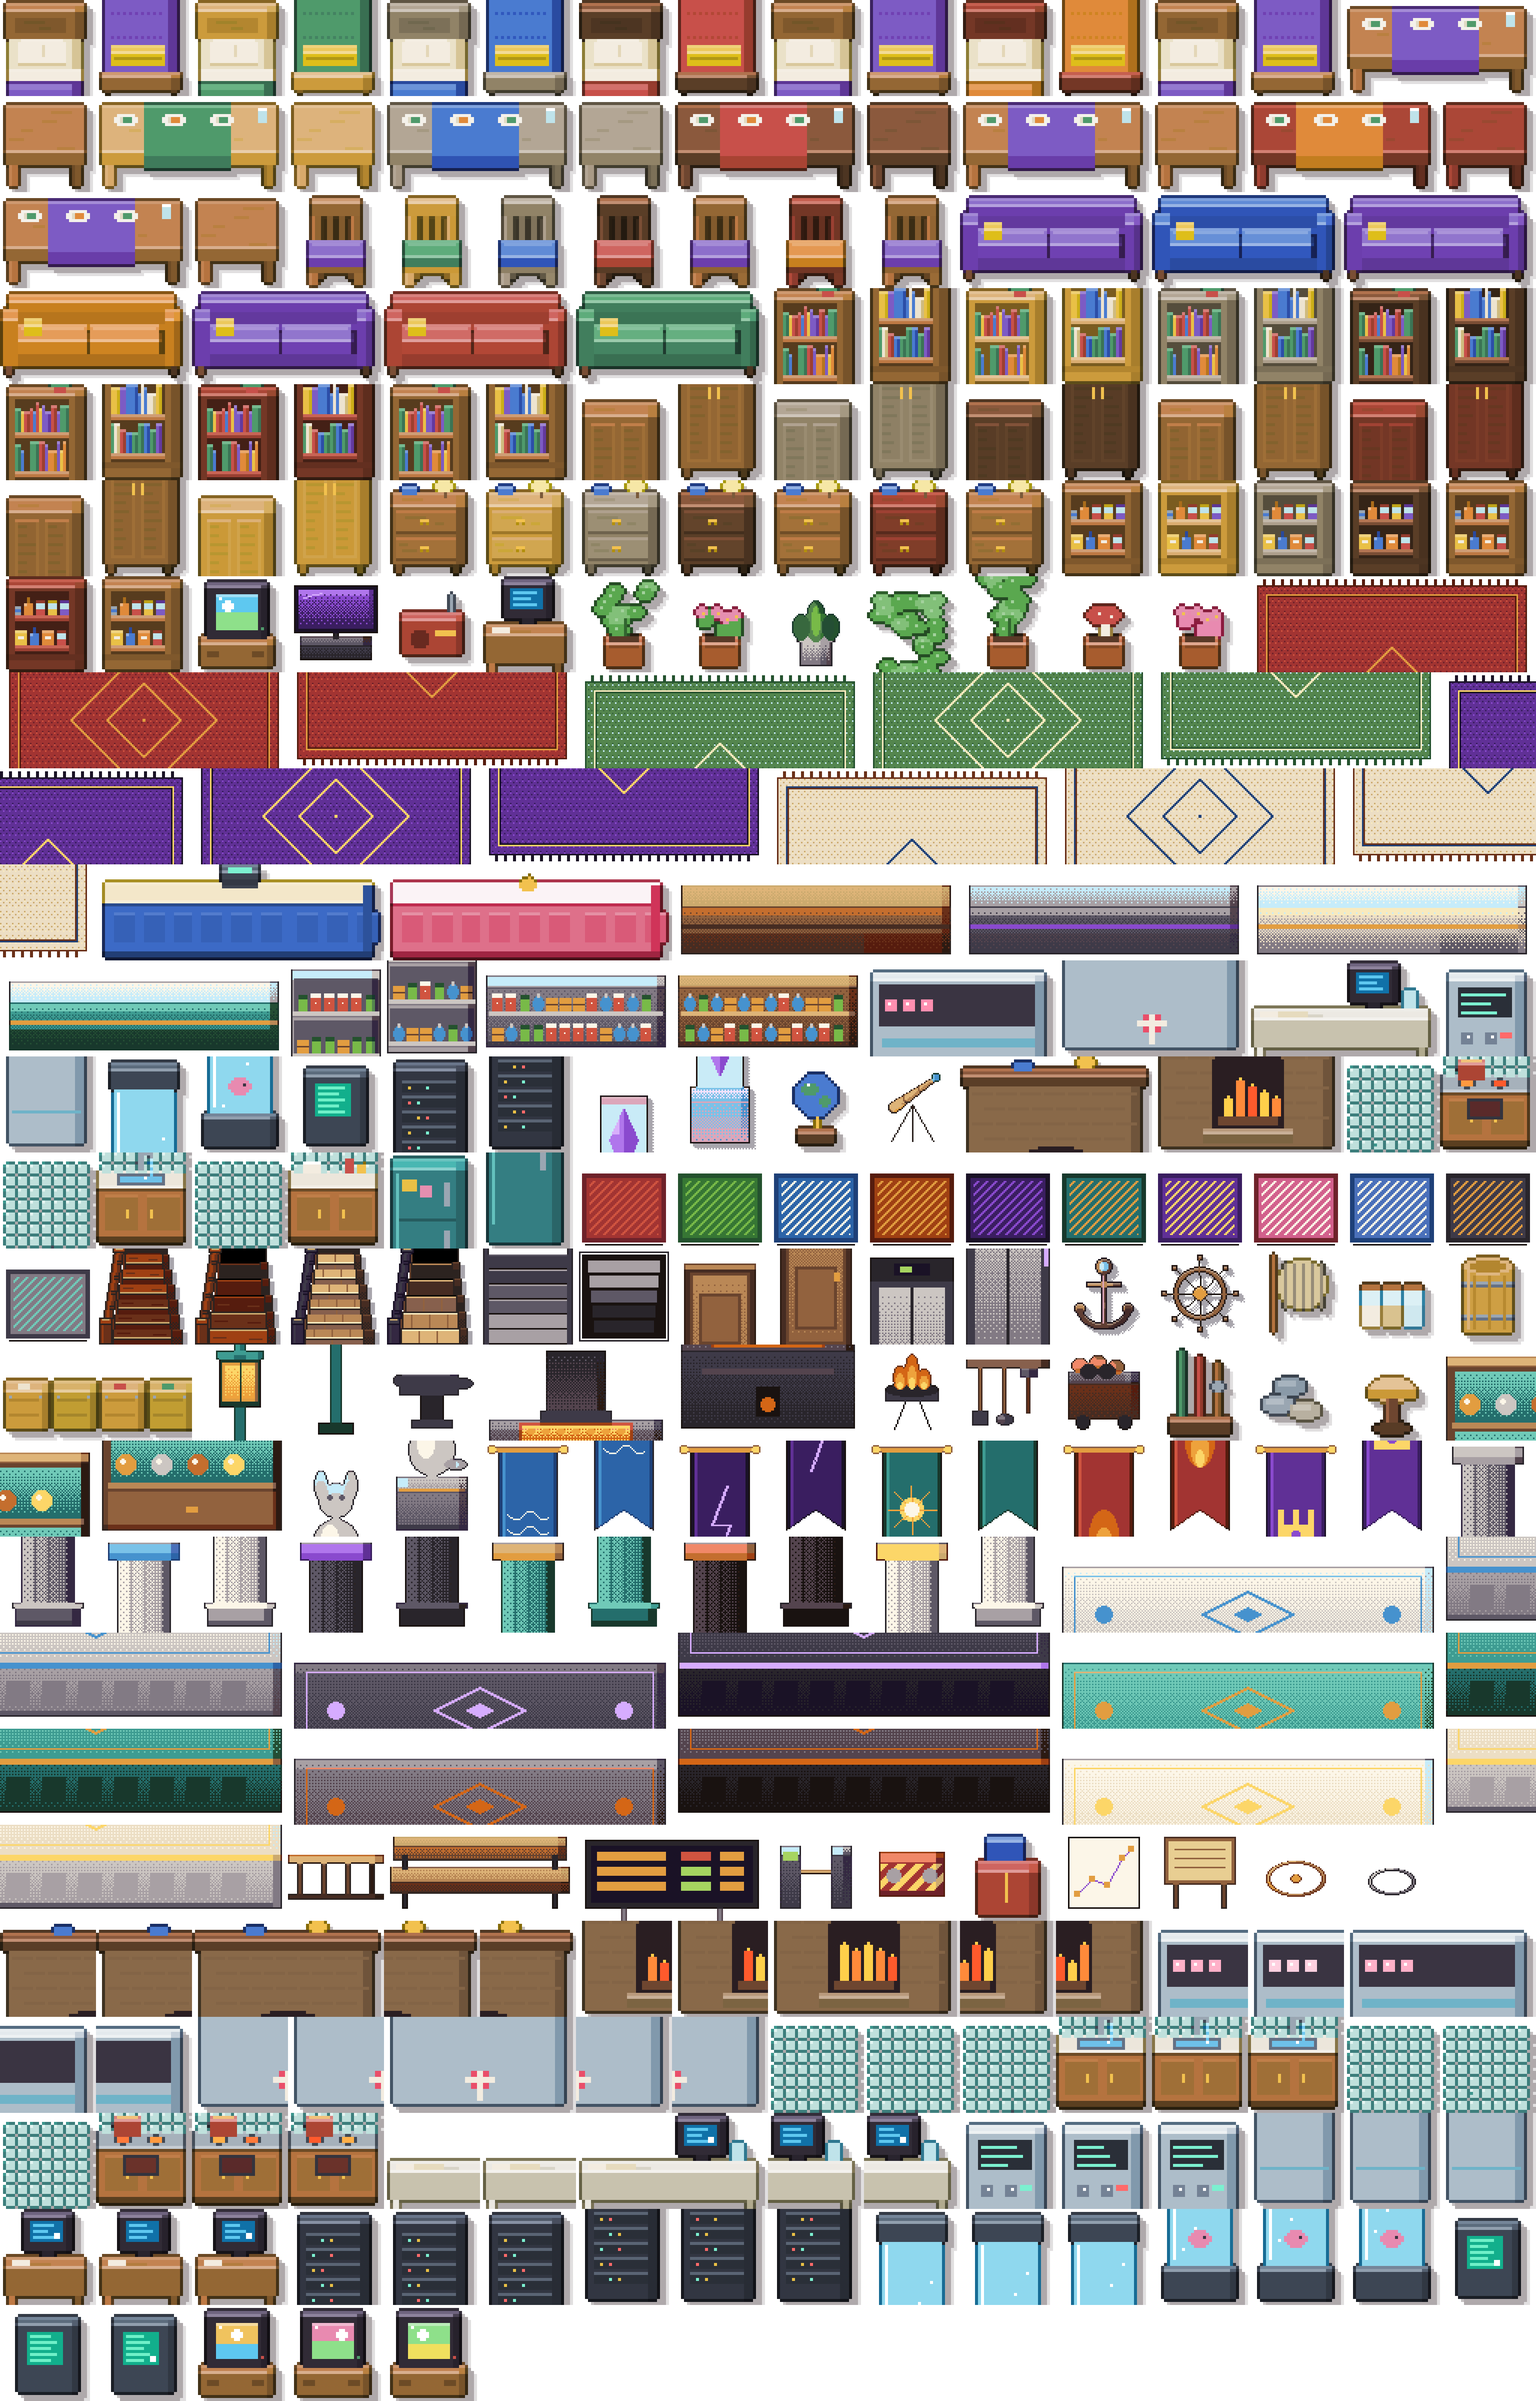
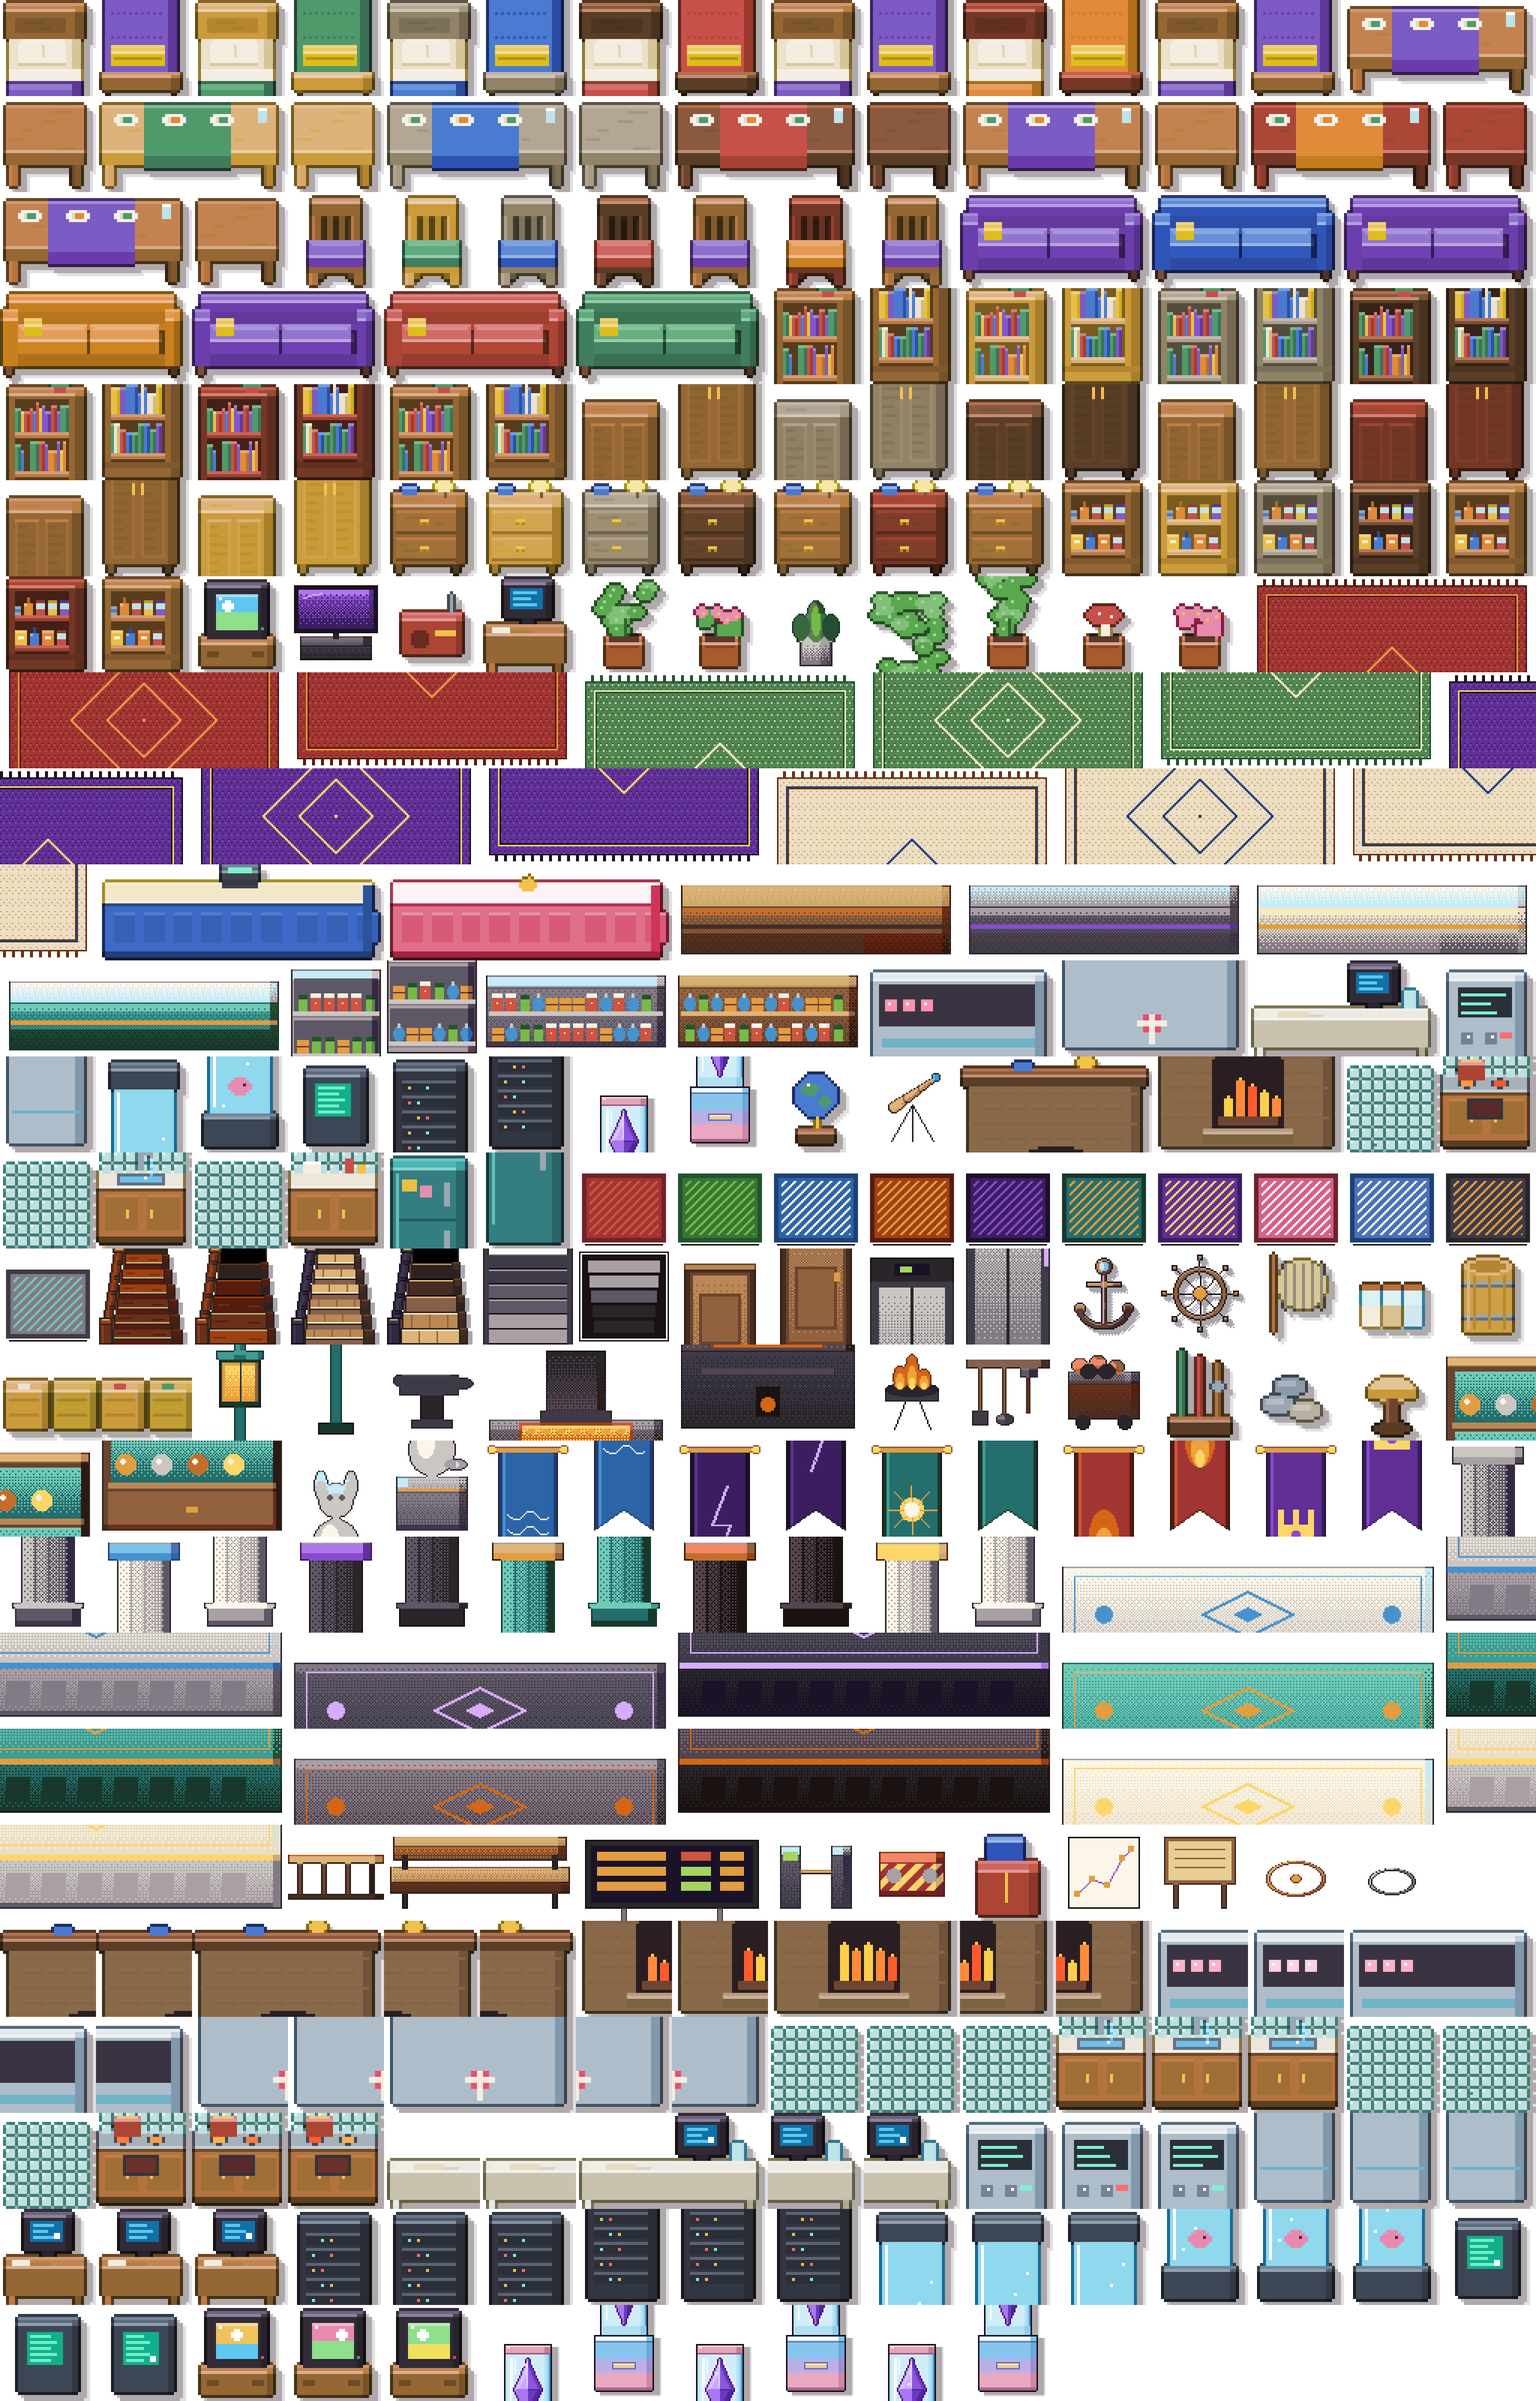
Kilumen: crystal display cases redrawn at v2 quality (840/841, 7293/7294) + subtle shimmer anim; collision unchanged

Changed region(s): [[0.3125, 0.9375, 0.6875, 1.0], [0.4375, 0.4375, 0.5, 0.5], [0.4062, 0.4688, 0.4375, 0.5]]

diff --git a/kilumen/tools/furniture_v2/crystal_cases_v1.py b/kilumen/tools/furniture_v2/crystal_cases_v1.py
@@ -1,0 +1,208 @@
+"""Crystal display cases v1 (Gary, Oct 29 2026): the ORIGINAL two lab/office crystal cases (furniture v4 KEEP_OLD) redrawn
+at the furniture-v2 detail level - same silhouette / design, v2 outline, stepped shading (no dither), v2 drop shadow and
+palette - plus a cheap shimmer (tile frame swap, 4 frames in free sheet cells). Collision is NOT touched.
+
+  i_crystal_display (ids 7293 top / 7294 bottom, interiors_new i_furniture_v3.png cells 182/183): tall glass column, one
+      floating diamond crystal, pink cap, blue->pink plinth.
+  crystal_display   (ids 840 top / 841 bottom, tiles_* interior_v3.png cells 52/53): dark framed case, three-crystal
+      cluster, teal trim, charcoal cabinet; also gets plane normals in tiles_1x/interior_v3_n.png (ixlight).
+Writes the 1x/2x/3x *_v3.png sheets (2x/3x = nearest upscale, like every v3 cell), interior_v3_n.png and
+furniture_v3_anim.json. Run after build_v3_hybrid.py:  python3 tools/furniture_v2/crystal_cases_v1.py
+"""
+import json, os
+from PIL import Image
+
+ROOT = os.path.dirname(os.path.dirname(os.path.dirname(os.path.abspath(__file__))))
+OW = os.path.join(ROOT, 'art/world/overworld')
+O = (24, 18, 30, 255)           # v2 outline
+SH, SH2 = (40, 24, 30, 95), (40, 24, 30, 35)  # v2 drop shadow + soft edge
+# crystal violet ramp (old case colours, stepped)
+CV = dict(hi=(244, 232, 255, 255), l1=(204, 168, 252, 255), l2=(168, 120, 240, 255), m=(138, 86, 222, 255),
+          d1=(108, 58, 194, 255), d2=(80, 40, 156, 255), ol=(58, 28, 112, 255), x1=(220, 194, 255, 255), x2=(226, 206, 255, 255))
+HALO = [(236, 226, 252, 255), (246, 240, 254, 255)]
+FRAMES = 4  # 0 = still art; 1..3 shimmer
+
+
+class Cv:
+    def __init__(s, w=64, h=128): s.im = Image.new('RGBA', (w, h), (0, 0, 0, 0)); s.px = s.im.load(); s.w, s.h = w, h
+    def p(s, x, y, c):
+        if 0 <= x < s.w and 0 <= y < s.h: s.px[x, y] = c
+    def rect(s, x0, y0, x1, y1, c):  # inclusive
+        for y in range(y0, y1 + 1):
+            for x in range(x0, x1 + 1): s.p(x, y, c)
+    def get(s, x, y): return s.px[x, y]
+
+
+def shadow(cv, boxes, dx=5, dy=3):
+    """v2 drop shadow: solid alpha-95 copy offset right/down, alpha-35 soft rim; drawn first (under the art)."""
+    m = set()
+    for x0, y0, x1, y1 in boxes:
+        for y in range(y0 + dy, y1 + dy + 1):
+            for x in range(x0 + dx, x1 + dx + 1): m.add((x, y))
+    for (x, y) in m: cv.p(x, y, SH)
+    for (x, y) in m:
+        for nx, ny in ((x + 1, y), (x, y + 1)):
+            if (nx, ny) not in m: cv.p(nx, ny, SH2)
+
+
+def outline_box(cv, x0, y0, x1, y1, round_bottom=True, round_top=False):
+    for x in range(x0, x1 + 1): cv.p(x, y0, O); cv.p(x, y1, O)
+    for y in range(y0, y1 + 1): cv.p(x0, y, O); cv.p(x1, y, O)
+    if round_bottom: cv.p(x0, y1, (0, 0, 0, 0)) if cv.get(x0, y1) == O else None
+
+
+def crystal(cv, cx, top, bot, half, mid, f, glint=True):
+    """Faceted crystal: left half light, right half dark, upper-left facet highlight, outline in deep violet.
+    cx = centre column (crystal spans cx-half .. cx+half-1), widest row = mid. f = shimmer frame."""
+    rows = {}
+    for y in range(top, bot + 1):
+        t = (y - top) / max(1, mid - top) if y <= mid else (bot - y) / max(1, bot - mid)
+        hw = max(1, round(half * t)); rows[y] = hw
+    for y, hw in rows.items():
+        for x in range(cx - hw, cx + hw):
+            left = x < cx; up = y <= mid
+            if left: c = CV['l1'] if up else CV['l2']
+            else: c = CV['m'] if up else CV['d1']
+            # upper-left inner facet (bright), lower-right deep facet
+            if left and up and x >= cx - hw + 2 and x < cx - 1 and y > top + 2: c = CV['l1'] if (x + y) % 1 else CV['l1']
+            if left and up and x - (cx - hw) in (1, 2) and y > top + 3: c = (220, 194, 255, 255)
+            if not left and not up and x > cx + 1 and x >= cx + hw - 3: c = CV['d2']
+            if not left and up and x >= cx + hw - 2: c = CV['d1']
+            cv.p(x, y, c)
+        cv.p(cx - hw - 1, y, CV['ol']); cv.p(cx + hw, y, CV['ol'])
+    cv.p(cx - 1, top - 1, CV['ol']); cv.p(cx, top - 1, CV['ol']); cv.p(cx - 1, bot + 1, CV['ol']); cv.p(cx, bot + 1, CV['ol'])
+    # girdle line at the widest row (facet edge)
+    for x in range(cx - rows[mid] + 1, cx + rows[mid] - 1): cv.p(x, mid, CV['l2'] if x < cx else CV['d2'])
+    # centre ridge highlight on the light side
+    for y in range(top + 2, mid - 1): cv.p(cx - 1, y, CV['hi'] if y < top + 6 else (226, 206, 255, 255))
+    if glint and f:  # travelling glint down the light facet + a sparkle
+        gy = top + 3 + (f - 1) * (mid - top) // 3
+        for k in range(2):
+            x = cx - 2 - k
+            if gy + k in rows: cv.p(x, gy + k, CV['hi'])
+        cv.p(cx - 3, gy, CV['hi'])
+    return rows
+
+
+def halo(cv, inside, f, region):
+    """Stepped (no dither) 1-2px glow ring around crystal pixels, only on glass pixels in region; brighter on frame 2."""
+    x0, y0, x1, y1 = region
+    crys = {(x, y) for x in range(x0, x1 + 1) for y in range(y0, y1 + 1) if cv.get(x, y)[:3] in {c[:3] for c in CV.values()}}
+    ring1 = {(x + dx, y + dy) for x, y in crys for dx, dy in ((1, 0), (-1, 0), (0, 1), (0, -1))} - crys
+    ring2 = {(x + dx, y + dy) for x, y in ring1 for dx, dy in ((1, 0), (-1, 0), (0, 1), (0, -1))} - crys - ring1
+    c1 = HALO[1] if f == 2 else HALO[0]
+    for (x, y) in ring2:
+        if x0 <= x <= x1 and y0 <= y <= y1 and inside(x, y) and f in (2,): cv.p(x, y, HALO[0])
+    for (x, y) in ring1:
+        if x0 <= x <= x1 and y0 <= y <= y1 and inside(x, y): cv.p(x, y, c1)
+
+
+def case_a(f):
+    """i_crystal_display: glass column x16..47 y26..83 (cap 27..32), plinth x12..51 y84..121."""
+    cv = Cv(); shadow(cv, [(16, 26, 47, 83), (12, 84, 51, 121)], dx=4, dy=2)
+    G0, G1, G2, GE, W = (206, 238, 250, 255), (176, 224, 242, 255), (143, 206, 232, 255), (70, 146, 206, 255), (252, 252, 255, 255)
+    cv.rect(17, 33, 46, 83, G0)
+    cv.rect(43, 33, 46, 83, G1); cv.rect(45, 33, 46, 83, G2); cv.p(46, 33, GE)
+    for y in range(33, 84): cv.p(46, y, GE); cv.p(17, y, G1)
+    cv.rect(17, 78, 46, 83, G1); cv.rect(43, 78, 46, 83, G2)              # floor of the case (depth)
+    for y in range(35, 74): cv.p(20, y, W); cv.p(21, y, W if y < 60 else G0)  # glass highlight stripe
+    for y in range(36, 46): cv.p(23, y, W)
+    # cap (pink lid)
+    P0, P1, P2, P3 = (250, 214, 226, 255), (228, 164, 188, 255), (196, 124, 156, 255), (160, 92, 128, 255)
+    cv.rect(17, 27, 46, 32, P1); cv.rect(17, 27, 46, 27, P0); cv.rect(17, 32, 46, 32, P3); cv.rect(43, 28, 46, 31, P2)
+    cv.p(18, 28, P0); cv.p(19, 28, P0)
+    crystal(cv, 32, 36, 76, 9, 56, f)
+    halo(cv, lambda x, y: 18 <= x <= 45 and 34 <= y <= 77, f, (17, 33, 46, 83))
+    # plinth
+    B0, B1, B2, B3 = (232, 242, 250, 255), (136, 196, 236, 255), (110, 168, 216, 255), (80, 130, 190, 255)
+    L1, L2 = (186, 176, 230, 255), (154, 144, 206, 255)
+    K1, K2, K3 = (232, 168, 192, 255), (204, 136, 166, 255), (168, 100, 136, 255)
+    cv.rect(13, 85, 50, 87, B0); cv.rect(13, 88, 50, 99, B1); cv.rect(13, 100, 50, 108, L1); cv.rect(13, 109, 50, 118, K1)
+    cv.rect(13, 119, 50, 120, K3)
+    cv.rect(47, 88, 50, 99, B2); cv.rect(47, 100, 50, 108, L2); cv.rect(47, 109, 50, 118, K2); cv.rect(47, 85, 50, 87, B1)
+    for x in range(13, 51): cv.p(x, 88, B3 if x < 47 else (64, 110, 170, 255))
+    for x in range(14, 47): cv.p(x, 86, (255, 255, 255, 255))
+    # recessed plaque
+    cv.rect(24, 102, 39, 106, (120, 108, 180, 255)); cv.rect(25, 103, 38, 105, (228, 210, 150, 255)); cv.rect(25, 103, 38, 103, (250, 236, 186, 255))
+    outline_box(cv, 16, 26, 47, 84, round_bottom=False); outline_box(cv, 12, 84, 51, 121)
+    cv.p(12, 121, (0, 0, 0, 0)); cv.p(51, 121, SH); cv.p(12, 84, O); cv.p(51, 84, O)
+    return cv.im
+
+
+def case_b(f):
+    """crystal_display: framed case x11..53 y35..89, three-crystal cluster, cabinet x11..53 y90..124."""
+    cv = Cv(); shadow(cv, [(11, 35, 53, 124)], dx=4, dy=2)
+    F0, F1, F2, F3 = (110, 84, 88, 255), (78, 58, 64, 255), (58, 42, 48, 255), (40, 28, 34, 255)
+    cv.rect(11, 35, 53, 89, F1)
+    cv.rect(12, 36, 52, 37, F0); cv.rect(12, 38, 52, 40, F2); cv.rect(48, 41, 52, 89, F2); cv.rect(12, 41, 16, 89, F1)
+    cv.rect(52, 38, 52, 89, F3)
+    for (x, y) in ((13, 36), (51, 36)): cv.p(x, y, (232, 214, 170, 255))  # brass studs (old light corners)
+    for x in range(13, 16): cv.p(x, 41, F0)
+    GL0, GL1, GL2, W = (232, 236, 244, 255), (214, 220, 234, 255), (192, 198, 218, 255), (255, 255, 255, 255)
+    cv.rect(17, 41, 47, 83, GL0); cv.rect(17, 41, 47, 43, GL2); cv.rect(17, 44, 47, 44, GL1); cv.rect(44, 45, 47, 83, GL1)
+    for y in range(46, 76): cv.p(19, y, W)
+    for i in range(10): cv.p(21 + i // 3, 46 + i, W) if i < 6 else None
+    crystal(cv, 32, 47, 82, 8, 78, f)
+    crystal(cv, 23, 59, 82, 5, 79, (f + 1) % FRAMES if f else 0)
+    crystal(cv, 42, 60, 82, 5, 79, (f + 2) % FRAMES if f else 0)
+    halo(cv, lambda x, y: 17 <= x <= 47 and 44 <= y <= 83, f, (17, 41, 47, 83))
+    T0, T1 = (120, 220, 204, 255), (60, 156, 146, 255)
+    cv.rect(17, 84, 47, 85, T0); cv.rect(17, 86, 47, 86, T1); cv.rect(44, 84, 47, 85, T1)
+    cv.rect(12, 87, 52, 89, F2); cv.rect(12, 87, 52, 87, F0)
+    C0, C1, C2, C3 = (110, 116, 128, 255), (70, 76, 88, 255), (54, 58, 68, 255), (38, 40, 48, 255)
+    cv.rect(12, 90, 52, 123, C1); cv.rect(12, 90, 52, 91, C0); cv.rect(48, 92, 52, 123, C2); cv.rect(12, 121, 52, 123, C3)
+    cv.rect(16, 95, 44, 117, C2); cv.rect(17, 96, 43, 116, C1); cv.rect(17, 96, 43, 96, C0)   # panel inset
+    cv.rect(28, 104, 32, 106, (120, 220, 204, 255)); cv.rect(28, 104, 32, 104, (190, 246, 236, 255))  # teal keyplate
+    outline_box(cv, 11, 35, 53, 89, round_bottom=False); outline_box(cv, 11, 89, 53, 124)
+    cv.p(11, 124, (0, 0, 0, 0))
+    return cv.im
+
+
+def normals_b(img):
+    """Plane normals for ixlight (same codes as the v2 sheet): front (128,128,255), top lip (128,51,230), glass (128,159,251)."""
+    n = Image.new('RGBA', img.size, (0, 0, 0, 0)); a, p = img.load(), n.load()
+    for y in range(img.height):
+        for x in range(img.width):
+            r, g, b, al = a[x, y]
+            if not al: continue
+            if al < 255: p[x, y] = (128, 128, 255, al); continue
+            c = (128, 128, 255, 255)
+            if 36 <= y <= 37 or 90 <= y <= 91 or y == 87: c = (128, 51, 230, 255)
+            elif 17 <= x <= 47 and 41 <= y <= 83: c = (128, 159, 251, 255)
+            p[x, y] = c
+    return n
+
+
+def put(sheet_rel, idx_pairs, imgs):
+    for n in (1, 2, 3):
+        rel = sheet_rel.replace('tiles_1x', f'tiles_{n}x'); path = os.path.join(OW, rel)
+        sh = Image.open(path).convert('RGBA'); C = 64 * n
+        for (top, bot), im in zip(idx_pairs, imgs):
+            big = im.resize((64 * n, 128 * n), Image.NEAREST)
+            for i, part in ((top, big.crop((0, 0, C, C))), (bot, big.crop((0, C, C, 2 * C)))):
+                x, y = i % 16 * C, i // 16 * C
+                sh.paste(Image.new('RGBA', (C, C), (0, 0, 0, 0)), (x, y)); sh.paste(part, (x, y))
+        sh.save(path, optimize=True)
+
+
+def main():
+    A = [case_a(f) for f in range(FRAMES)]; B = [case_b(f) for f in range(FRAMES)]
+    A_CELLS = [(182, 183), (389, 390), (391, 392), (393, 394)]   # frame 0 = the tile's own cells, 1..3 = free cells
+    B_CELLS = [(52, 53), (187, 188), (189, 190), (252, 253)]
+    put('interiors_new/tiles_1x/i_furniture_v3.png', A_CELLS, A)
+    put('tiles_1x/interior_v3.png', B_CELLS, B)
+    npath = os.path.join(OW, 'tiles_1x/interior_v3_n.png'); ns = Image.open(npath).convert('RGBA'); nb = normals_b(B[0])
+    ns.paste(nb.crop((0, 0, 64, 64)), (52 % 16 * 64, 52 // 16 * 64)); ns.paste(nb.crop((0, 64, 64, 128)), (53 % 16 * 64, 53 // 16 * 64))
+    ns.save(npath, optimize=True)
+    seq = [0, 0, 0, 0, 0, 1, 2, 3, 2, 1]  # mostly still, a slow glint pass (~1.8 s loop)
+    ap = os.path.join(OW, 'furniture_v3_anim.json'); anim = json.load(open(ap))
+    for (tid_top, tid_bot), cells in (((7293, 7294), A_CELLS), ((840, 841), B_CELLS)):
+        anim['anim'][str(tid_top)] = {'frames': [cells[k][0] for k in seq], 'frame_ms': 180}
+        anim['anim'][str(tid_bot)] = {'frames': [cells[k][1] for k in seq], 'frame_ms': 180}
+    if 'crystal_cases_v1' not in anim['note']: anim['note'] += '; crystal_cases_v1: 840/841 + 7293/7294 shimmer (tools/furniture_v2/crystal_cases_v1.py)'
+    json.dump(anim, open(ap, 'w'), indent=1)
+    return A, B
+
+
+if __name__ == '__main__':
+    main(); print('crystal cases v1 written')
